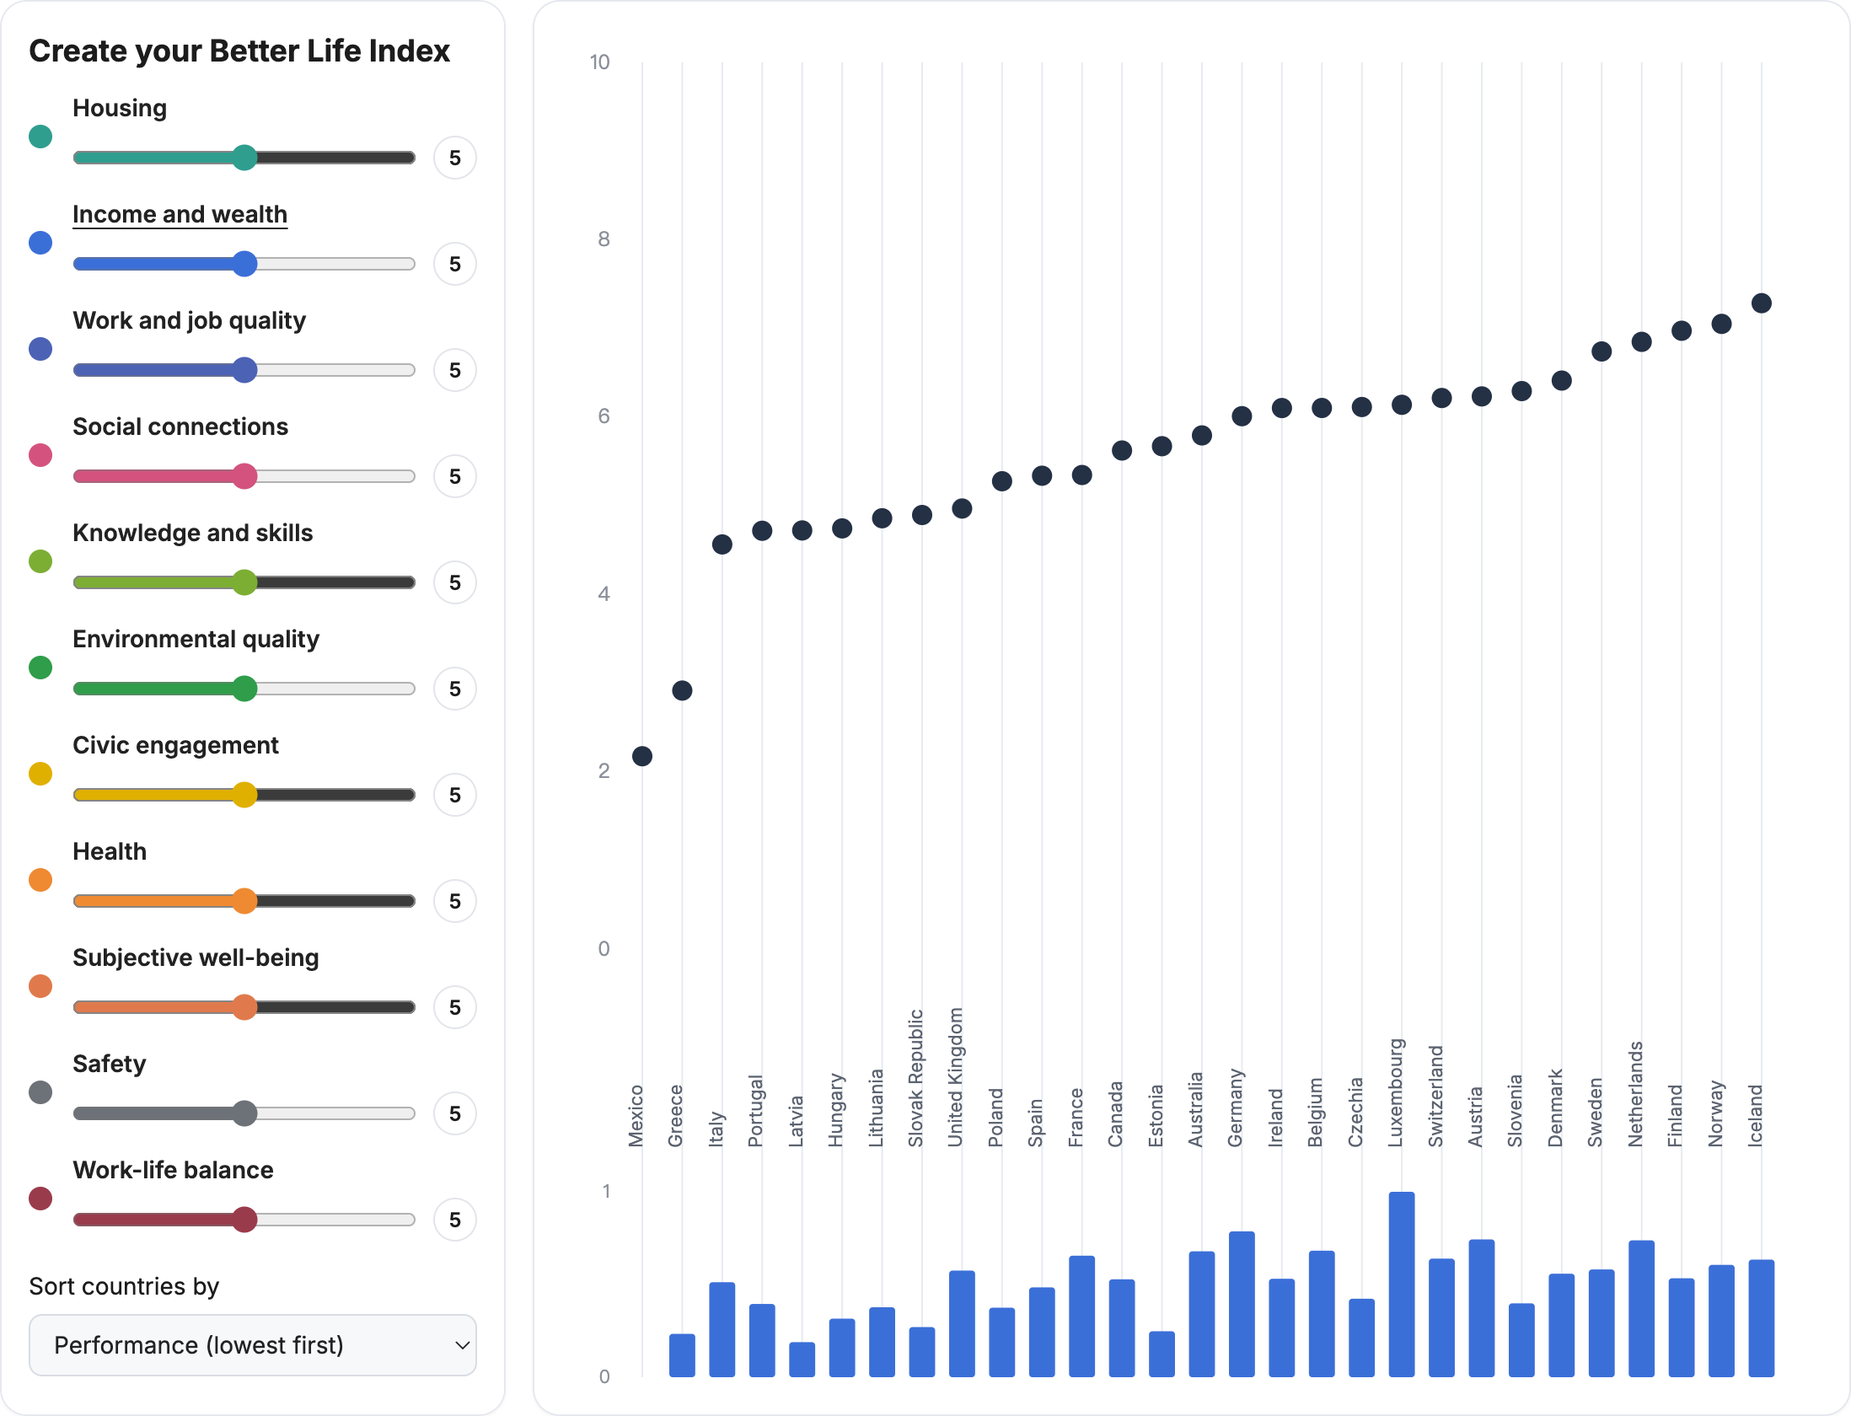
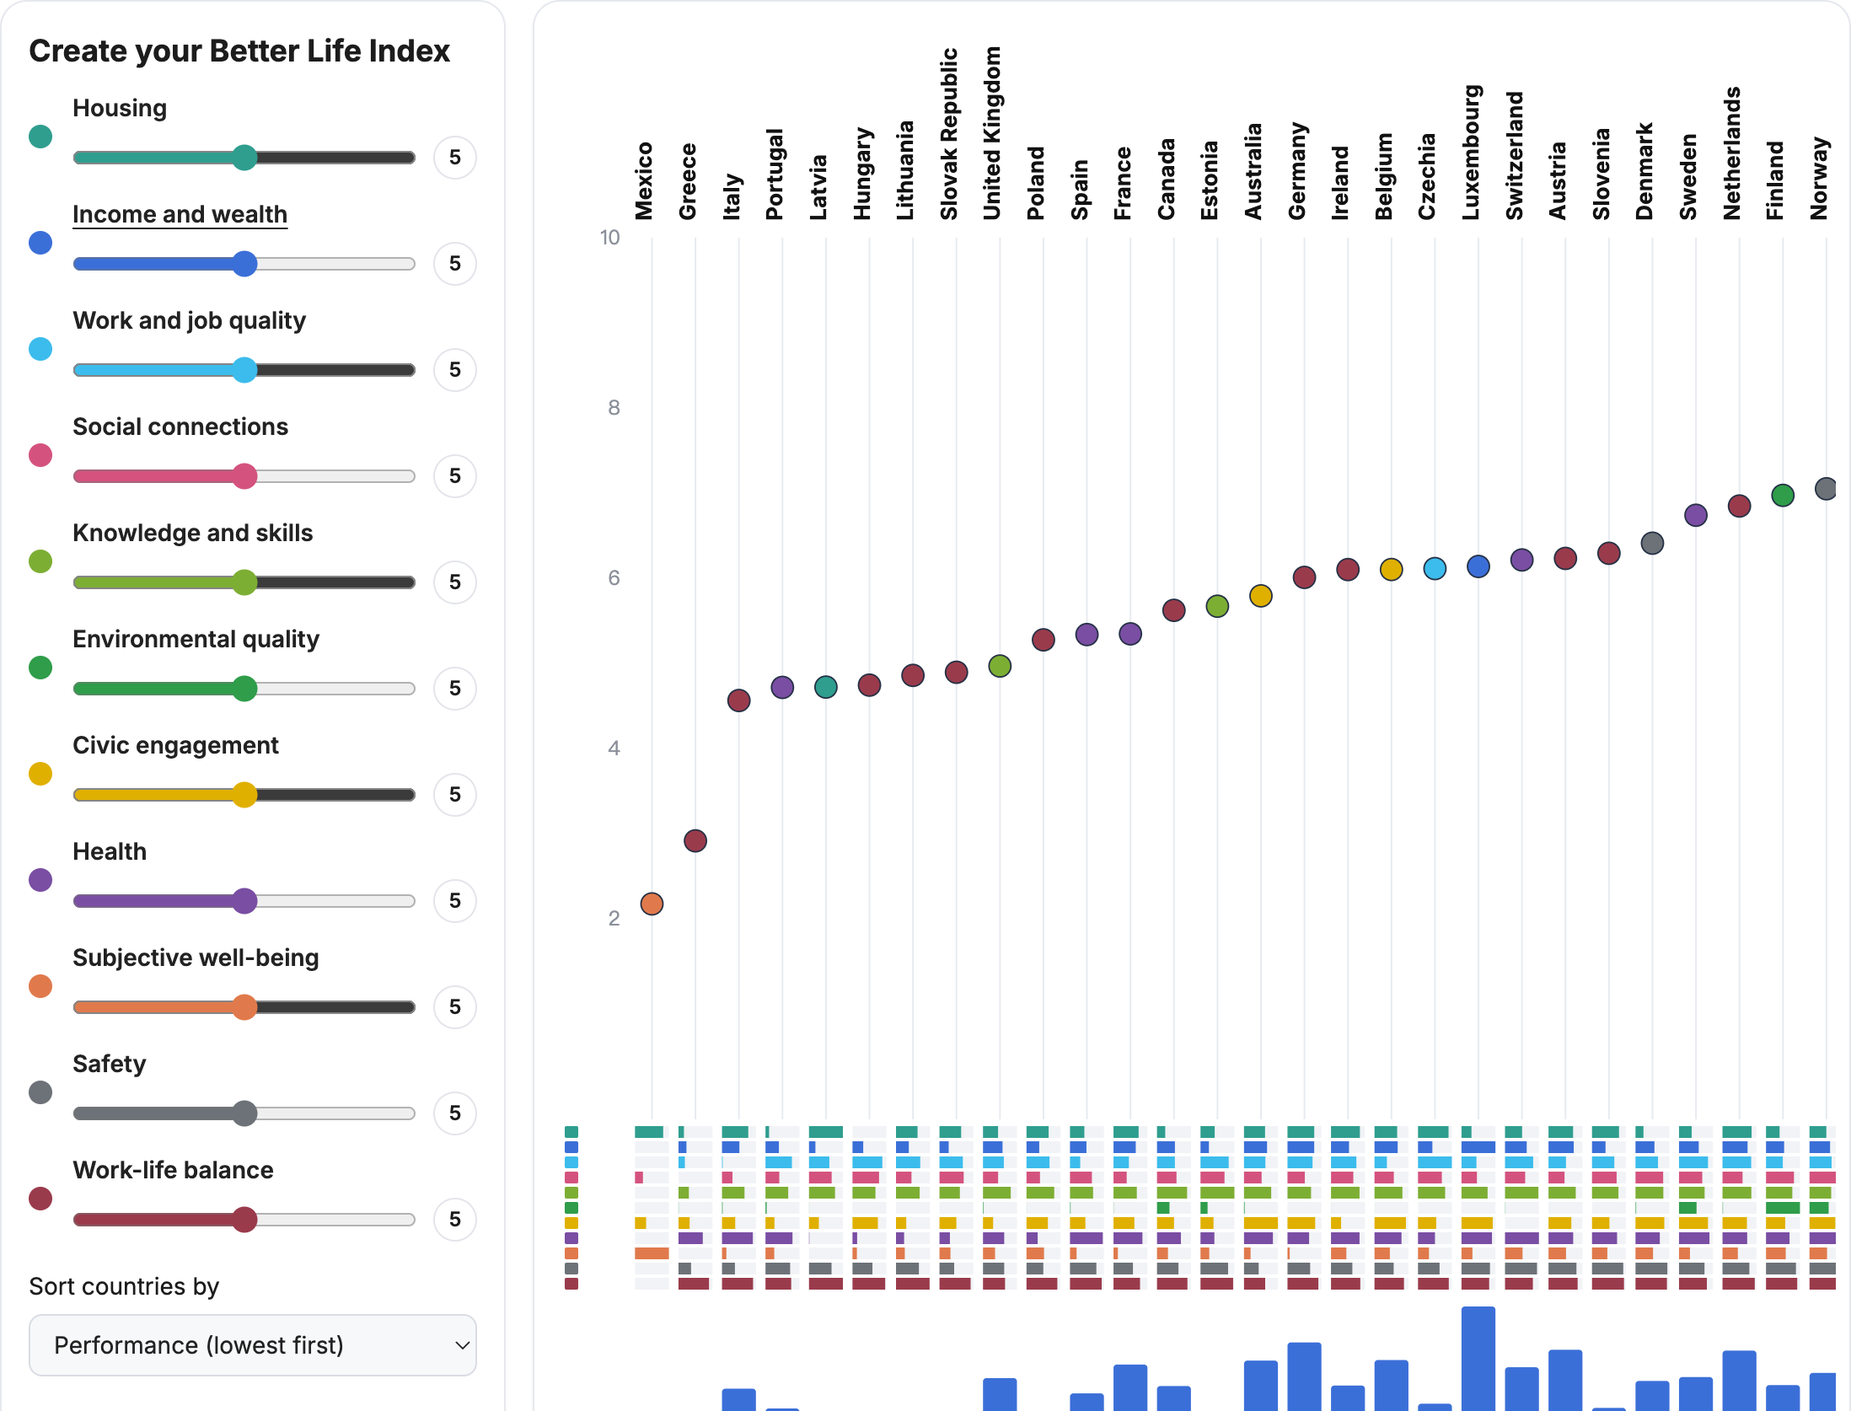
Add the analysis section and update the critique report.

diff --git a/index.html b/index.html
@@ -4,7 +4,7 @@
   <meta charset="utf-8">
   <meta name="viewport" content="width=device-width, initial-scale=1">
   <title>Visualization Critique and Redesign</title>
-  <link rel="stylesheet" href="css/style.css?v=18">
+  <link rel="stylesheet" href="css/style.css?v=19">
   <style>
     html, body { height: auto; }
 
@@ -59,6 +59,8 @@
       font-size: 16px;
     }
 
+    .card h2 + h3 { margin-top: 8px; }
+
     .card p,
     .card li {
       max-width: 52em;
@@ -68,6 +70,25 @@
     }
 
     .card a { color: #3b6fd8; }
+
+    .source-block {
+      margin: 0 0 14px;
+      padding: 12px 14px;
+      background: #f7f8fa;
+      border: 1px solid #e6e8ee;
+      border-radius: 10px;
+      font-size: 14px;
+      line-height: 1.5;
+      color: #2b2f36;
+    }
+
+    .source-block p {
+      margin: 0 0 4px;
+      max-width: none;
+      font-size: 14px;
+    }
+
+    .source-block p:last-child { margin-bottom: 0; }
 
     figure { margin: 14px 0 6px; }
 
@@ -86,7 +107,7 @@
     }
 
     .app {
-      height: 840px;
+      height: 900px;
       padding: 0;
     }
 
@@ -109,6 +130,7 @@
       <p>STATS 401 individual project · Tianyao Wang</p>
       <nav class="doc-nav">
         <a href="#original">Original visualization</a>
+        <a href="#analysis">Analysis</a>
         <a href="#redesign">Redesign</a>
         <a href="#sources">Data and references</a>
         <a href="#report">Report</a>
@@ -117,20 +139,32 @@
 
     <section class="panel card" id="original">
       <h2>Original visualization</h2>
+      <div class="source-block">
+        <p>Title: Create your Better Life Index</p>
+        <p>Source: OECD Well-being Data Monitor</p>
+        <p>Link: <a href="https://www.oecd.org/en/data/tools/well-being-data-monitor/better-life-index.html">oecd.org/en/data/tools/well-being-data-monitor/better-life-index.html</a></p>
+      </div>
       <figure>
         <img src="images/original.png" alt="OECD Better Life Index: flowers for 38 countries arranged from lowest to highest score, with weight sliders on the left">
-        <figcaption>
-          Figure 1. “Create your Better Life Index”, OECD Well-being Data Monitor.
-          <a href="https://www.oecd.org/en/data/tools/well-being-data-monitor/better-life-index.html">oecd.org/en/data/tools/well-being-data-monitor/better-life-index.html</a>
-        </figcaption>
+        <figcaption>Figure 1. Create your Better Life Index, OECD Well-being Data Monitor. Screenshot taken with equal weights except income and wealth, which is set to 1, sorted by performance (lowest first).</figcaption>
       </figure>
-      <p>The OECD Better Life Index compares well-being in the 38 OECD member countries across eleven dimensions: housing, income and wealth, work and job quality, social connections, knowledge and skills, environmental quality, civic engagement, health, subjective well-being, safety, and work-life balance. Each country is drawn as a flower. Its height on the vertical axis is the country’s index under the reader’s own weights, and each coloured petal is the country’s score on one dimension. Sliders on the left set the importance of each dimension from 0 to 10, and a menu sorts countries by performance.</p>
-      <p>The data behind the index come from the OECD Well-being Database, which reports national indicators for each dimension from surveys and official statistics.</p>
+      <p>The chart compares well-being across the 38 OECD member countries. Each country is a flower. Vertical position is that country's index after the reader sets a 0-10 weight on each of eleven dimensions: housing, income and wealth, work and job quality, social connections, knowledge and skills, environmental quality, civic engagement, health, subjective well-being, safety, and work-life balance. Petal colour and length show the score on one dimension. Sliders on the left change the weights, and a menu sorts the countries.</p>
+      <p>The numbers come from the OECD Well-being Database: national survey and official statistics, one or more indicators per dimension, updated on different years. The public tool turns those indicators into a single weighted index and a flower glyph per country.</p>
+    </section>
+
+    <section class="panel card" id="analysis">
+      <h2>Analysis of the original</h2>
+      <h3>Intended message</h3>
+      <p>Well-being is not one number. A country can rank high on health and low on housing, and the country that looks "best" changes if the reader cares more about income than about safety. The display is built so that change in weights is visible in the ranking.</p>
+      <h3>Audience</h3>
+      <p>The page sits on a public OECD data monitor. It is aimed at a general audience, journalists, and students, not at people who already work with the Well-being Database.</p>
+      <h3>Tasks</h3>
+      <p>A reader should be able to set personal weights, rank countries and find the top and bottom of the list, compare several countries on one dimension, and see where a single country is strong or weak across the eleven parts.</p>
     </section>
 
     <section class="panel card" id="redesign">
       <h2>Redesigned visualization</h2>
-      <p>Each column is one country. Dot height is the weighted score from the sliders; the dot’s colour is that country’s strongest dimension. The strip of eleven marks under each name is the full profile, same colours as the sliders. Click a dimension name to select it; the bar under every country then shows that dimension, taller meaning better. Sort by overall performance or by the selected dimension. Hover a dot for all eleven scores, or a strip or bar for a single value.</p>
+      <p>Each column is one country. Names sit on a shared line at the top. Dot height is the weighted score from the sliders; the dot's colour is that country's strongest dimension. The strip of eleven marks under the dots is the full profile, using the same colours as the sliders, with length for the 0-1 score. Click a dimension name to select it; the bar at the bottom of every column then shows that dimension. Sort by overall performance or by the selected indicator. Hover a dot for all eleven scores, or a strip or bar for a single value.</p>
       <div class="app">
         <aside class="panel" id="controls"></aside>
         <section class="panel chart-panel">
@@ -141,12 +175,12 @@
 
     <section class="panel card" id="sources">
       <h2>Data source and references</h2>
-      <p>The redesign reads <code>data/bli-headline.csv</code>, built by <code>scripts/prepare_data.py</code> from the OECD Well-being Database. It keeps one headline indicator per dimension, the latest total-population value, and the 29 countries that report all eleven.</p>
+      <p>The redesign reads <code>data/bli-headline.csv</code>, built by <code>scripts/prepare_data.py</code> from the OECD Well-being Database SDMX CSV. It keeps one headline indicator per dimension, the latest total-population value, and the 29 countries that report all eleven. Lower-is-better indicators are reversed before min-max scaling to 0-1.</p>
       <ul class="refs">
         <li>OECD. <em>Create your Better Life Index</em>. OECD Well-being Data Monitor. <a href="https://www.oecd.org/en/data/tools/well-being-data-monitor/better-life-index.html">https://www.oecd.org/en/data/tools/well-being-data-monitor/better-life-index.html</a></li>
         <li>OECD. <em>Current well-being</em>, OECD Well-being Database, dataflow <code>OECD.WISE.WDP,DSD_HSL@DF_HSL_CWB</code>. <a href="https://sdmx.oecd.org/public/rest/data/OECD.WISE.WDP,DSD_HSL@DF_HSL_CWB/all?format=csvfilewithlabels">SDMX CSV download</a></li>
         <li>OECD. <em>OECD Well-being Database: Definitions and metadata</em>. <a href="https://www.oecd.org/content/dam/oecd/en/topics/policy-sub-issues/measuring-well-being-and-progress/oecd-well-being-database-definitions.pdf">PDF</a></li>
-        <li>Cleveland, W. S., &amp; McGill, R. (1984). Graphical perception: Theory, experimentation, and application to the development of graphical methods. <em>Journal of the American Statistical Association, 79</em>(387), 531–554.</li>
+        <li>Cleveland, W. S., and McGill, R. (1984). Graphical perception: Theory, experimentation, and application to the development of graphical methods. <em>Journal of the American Statistical Association, 79</em>(387), 531-554.</li>
         <li>Bostock, M. D3.js, version 7. <a href="https://d3js.org">https://d3js.org</a></li>
       </ul>
     </section>
@@ -155,31 +189,31 @@
       <h2>Visualization critique and redesign report</h2>
 
       <h3>Original visualization and context</h3>
-      <p>The OECD’s “Create your Better Life Index” (Figure 1) ranks the 38 OECD members on well-being. Countries are placed left to right; each is a flower whose height is its index and whose eleven petals, one colour per dimension, show its score on housing, income, jobs, community, education, environment, civic engagement, health, life satisfaction, safety and work-life balance. Readers weight each dimension from 0 to 10 with sliders. The message is that well-being has many parts, and which country looks best depends on what the reader values. The audience is the general public rather than analysts. The tasks are to set weights, rank countries and find the extremes, compare countries on one dimension, and see where a single country is strong or weak.</p>
+      <p>The OECD's "Create your Better Life Index" (Figure 1) is a public tool on the Well-being Data Monitor. It ranks the 38 OECD members on eleven headline dimensions of current well-being. Each country is a flower: height is the index under the reader's 0-10 weights, and each petal is that country's score on one dimension. A menu sorts countries by the weighted score.</p>
+      <p>The intended message is that well-being has several parts, and which country looks best depends on what the reader values. The audience is the general public. Viewers should be able to set those weights, rank countries and find the extremes, compare countries on one dimension, and see where one country is strong or weak.</p>
 
       <h3>Critique</h3>
-      <p><strong>Strength 1.</strong> The overall ranking uses position on a common scale. Countries are sorted, each flower sits on a vertical drop line, and the rising curve shows at once that Mexico and Colombia score low and Norway, Switzerland and Iceland high.</p>
-      <p><strong>Strength 2.</strong> Controls and marks share one colour code. Each slider is labelled with an icon in its petal’s colour, and moving it moves the flowers immediately, so the personalisation task gets direct feedback.</p>
-      <p><strong>Weakness 1: one dimension cannot be compared across countries.</strong> Petals radiate at different angles from centres at different heights, with no common baseline. To compare safety, a reader must find the grey petal in 38 flowers and judge unaligned lengths, which people estimate far less accurately than positions or aligned lengths (Cleveland and McGill 1984). Comparing a dimension is a core task, so it should use aligned bars.</p>
-      <p><strong>Weakness 2: the glyph is overloaded and overlaps.</strong> The flower marks the overall score and carries eleven petals around it. Where scores are close, as in the upper right, neighbouring flowers overlap, hiding both the exact height and the petals. Country names hang just below each flower, so they follow the curve instead of a shared line, and the vertical axis has no title. The score should be a plain mark, with labels on one baseline.</p>
-      <p><strong>Weakness 3: eleven hues at once.</strong> Hue suits categories, but only about seven to ten can be told apart reliably, and several here are close, such as the two greens or the reds for social connections and work-life balance. With every petal coloured, colour becomes texture rather than information. Only the dimension being examined needs colour.</p>
+      <p>The ranking is the strongest piece of the original. Countries are sorted, each flower sits on a vertical drop line, and the rising curve shows Mexico and Colombia at the bottom and Norway, Switzerland, and Iceland at the top. Position on a shared scale is doing that work.</p>
+      <p>A second strength is the colour match between sliders and petals. Each control uses the same hue as its dimension, and dragging a slider moves the flowers. The weighting task has visible feedback without a separate legend.</p>
+      <p>Comparison on one dimension is the main failure. Petals leave centres at different heights and different angles, with no shared baseline. To compare safety, a reader has to hunt for the grey petal in 38 flowers and judge unaligned lengths. People estimate aligned length and position much more accurately (Cleveland and McGill 1984). That comparison is one of the tasks the tool asks for, so it belongs on a shared axis.</p>
+      <p>The glyph is doing too much. One flower marks the overall score and also carries eleven petals. Where scores bunch, as on the right of Figure 1, flowers overlap and hide both height and petals. Names hang under each flower, so they follow the curve instead of a common line. The vertical axis has no title. A small mark for the score, and names on one baseline, would be easier to read.</p>
+      <p>Eleven hues at once is more colour than people can keep apart. Several pairs are close, such as the two greens and the reds for social connections and work-life balance. Once every petal is coloured, hue turns into texture. The dimension the reader is asking about is the one that should carry colour.</p>
 
       <h3>Redesign rationale</h3>
-      <p><strong>Decision 1: the flower becomes a dot.</strong> Each country’s weighted score is a single dark dot on a 0–10 axis. Position is the most accurate channel for magnitude, and a dot does not cover its neighbours. This addresses Weakness 2: order and gaps can be read without occlusion, and country names sit on one line below the dots.</p>
-      <p><strong>Decision 2: one selected dimension as aligned bars.</strong> Clicking a dimension name selects it, and a bar under every country shows its score from a shared baseline, in the same column as the dot. Two new sort options order countries by that dimension, ascending or descending. This addresses Weakness 1: “which country feels safest?” is read along one row of bars.</p>
-      <p><strong>Decision 3: one hue at a time.</strong> Bars take the colour of the selected dimension’s swatch, and the dots stay neutral. This addresses Weakness 3 and keeps the colour link between controls and chart that Strength 2 describes; each slider here takes its dimension’s colour.</p>
+      <p>I replaced each flower with a small dot on a 0-10 axis. Height is the weighted score. Position is a better channel for magnitude than a large glyph, and dots do not cover their neighbours, which was the overlap problem. Names sit on one line at the top of the chart, so they no longer ride the ranking curve.</p>
+      <p>For one dimension I draw a bar under every country from a shared baseline, in the same column as the dot. Clicking a name on the left selects that dimension and paints the bars in its slider colour. Two extra sort options order the columns by that indicator. Asking which country is safest is then a row of aligned bars.</p>
+      <p>The OECD colours remain, but they no longer sit on overlapping petals. The dot takes the colour of that country's strongest dimension. Under the dots, a strip of eleven short bars shows the full profile, with length for the 0-1 score. Hovering a dot opens a card with all eleven values; hovering a strip or bar gives the raw indicator. Colour is used on small aligned marks instead of a halo, and the profile the flower tried to show is still there.</p>
 
       <h3>Original versus redesign</h3>
-      <p>After the redesign it is easier to compare every country on one dimension, rank countries by that dimension, and read the overall order where scores are close. Tooltips give each bar’s raw value, unit and year. The trade-off is that a country’s full eleven-dimension profile is no longer visible at once; the reader switches dimensions instead. The data differ from the OECD tool. Each dimension uses one headline indicator, scaled 0–1 across the 29 countries with complete data, with lower-is-better indicators such as housing-cost overburden reversed; long hours in paid work stands in for work-life balance. The scores are therefore not the OECD’s published index. Colombia, Türkiye, Israel, Costa Rica, the United States, Chile, Japan, Korea and New Zealand are missing, indicator years differ, and weighted dots can still cluster because they are averages.</p>
-
+      <p>It is easier to compare every country on one dimension, to sort by that dimension, and to read the overall order where scores are close. The strip and the hover card also show a country's strengths without decoding petals. The strip is small in a 29-country layout, and the selected bar still shows only one indicator at a time. The numbers are not the OECD's published index. Each dimension uses one headline indicator from the Well-being Database, scaled 0-1 across the 29 countries with complete data. Lower-is-better items such as housing-cost overburden are reversed, and long hours in paid work stands in for work-life balance. Colombia, Turkiye, Israel, Costa Rica, the United States, Chile, Japan, Korea, and New Zealand drop out. Years differ across indicators, and because the dots are averages they can still bunch.</p>
       <figure>
-        <img src="images/redesign.png" alt="Redesigned view: weight sliders on the left, and for each country a dark dot for the weighted score above a coloured bar for the selected dimension">
-        <figcaption>Figure 2. The redesign with equal weights, sorted by performance, and income and wealth selected.</figcaption>
+        <img src="images/redesign.png" alt="Redesigned Better Life Index: country names at the top, coloured dots for the weighted score, an eleven-dimension strip, and bars for the selected indicator">
+        <figcaption>Figure 2. Redesign with equal weights, sorted by performance, income and wealth selected. Dot colour is the strongest dimension. The strip is the eleven-dimension profile.</figcaption>
       </figure>
     </section>
   </div>
   <div id="tooltip"></div>
   <script src="https://cdn.jsdelivr.net/npm/d3@7"></script>
-  <script src="js/main.js?v=18"></script>
+  <script src="js/main.js?v=19"></script>
 </body>
 </html>
